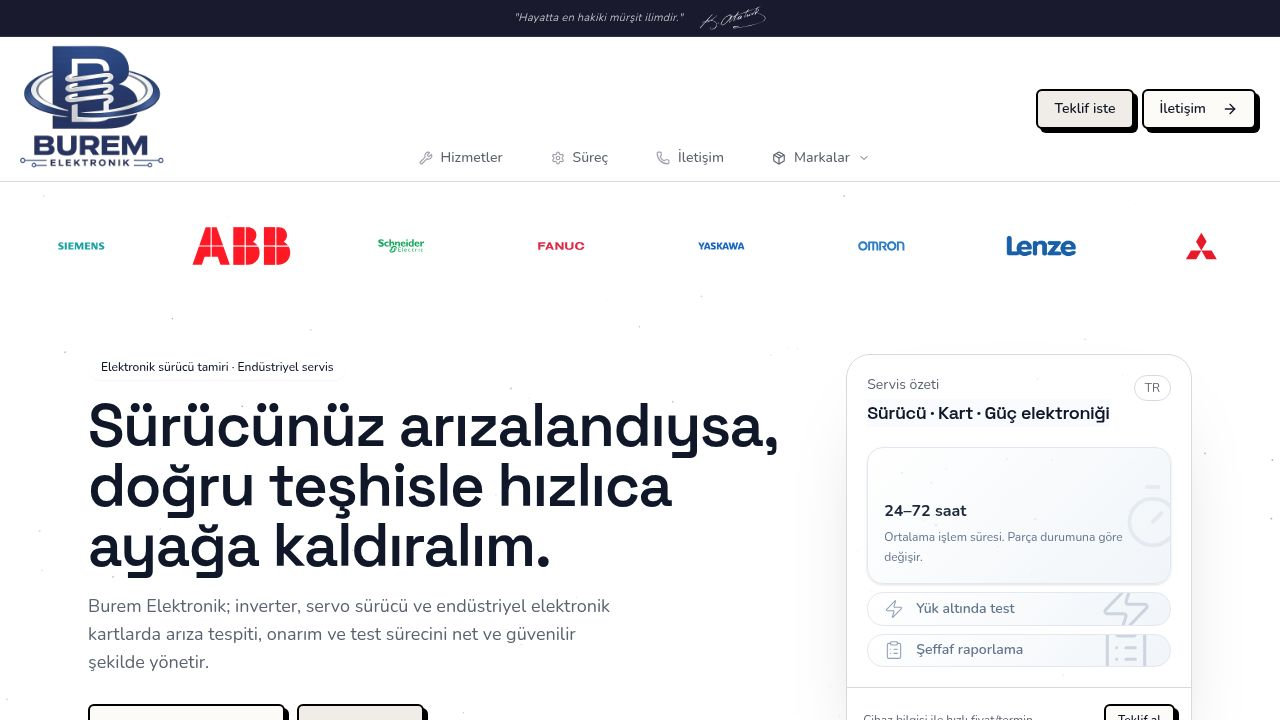
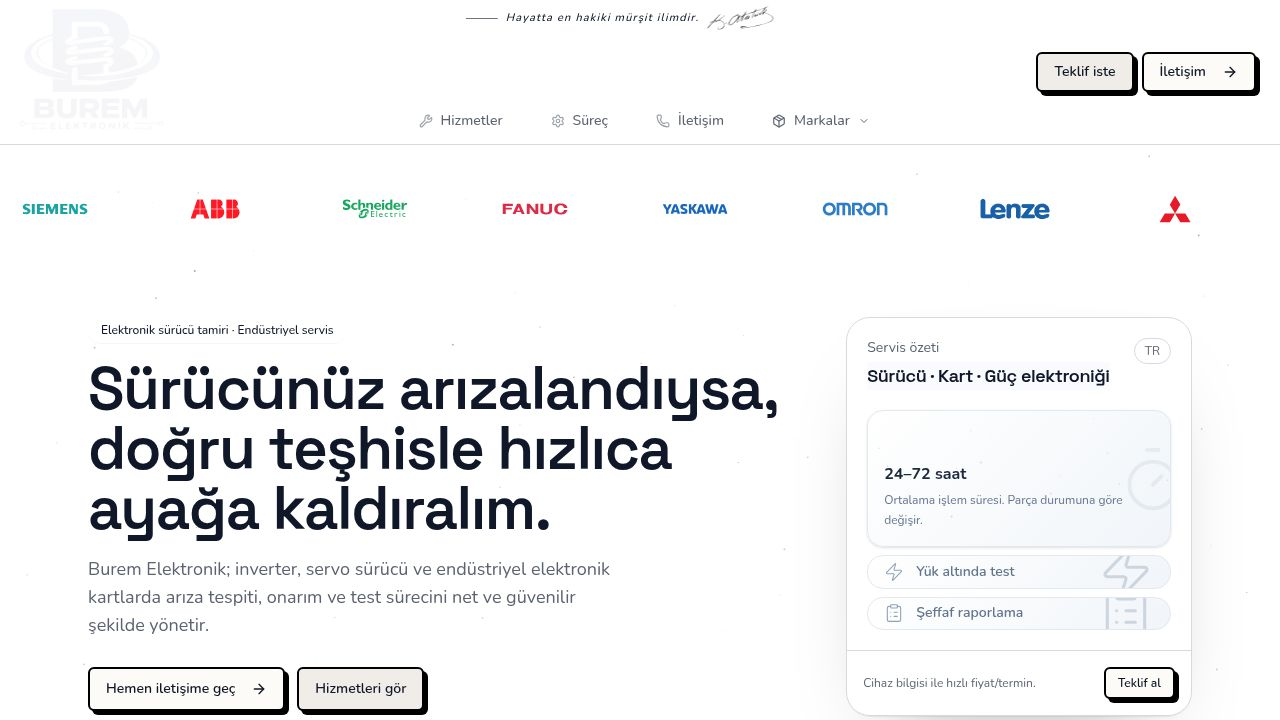
Add Atatürk silhouette that appears on hover over the quote
Update the home page to display an Atatürk silhouette below the "Hayatta en hakiki mürşit ilimdir" quote when hovered, using CSS group-hover for transitions.

Replit-Commit-Author: Agent
Replit-Commit-Session-Id: 371f6235-2fde-4516-bc43-82dd514ff68f
Replit-Commit-Checkpoint-Type: full_checkpoint
Replit-Commit-Event-Id: aef6f5ee-0b28-48c3-b2a2-bae0e5d0a2ec
Replit-Commit-Screenshot-Url: https://storage.googleapis.com/screenshot-production-us-central1/220fef12-6025-4ca4-92d5-d8870d5c7179/371f6235-2fde-4516-bc43-82dd514ff68f/gXXrKEM
Replit-Helium-Checkpoint-Created: true

diff --git a/client/src/pages/home.tsx b/client/src/pages/home.tsx
@@ -1092,7 +1092,10 @@ export default function HomePage() {
       
       <header className="relative sticky top-0 z-40 border-b bg-background/80 backdrop-blur-md">
         {/* Atatürk şeridi — tam ortada üstte, absolute */}
-        <div className="hidden lg:flex absolute top-1.5 left-1/2 -translate-x-1/2 items-center gap-2 pointer-events-none">
+        <div
+          className="hidden lg:flex absolute top-1.5 left-1/2 -translate-x-1/2 items-center gap-2 group cursor-default"
+          style={{ zIndex: 50 }}
+        >
           <motion.span
             className="w-8 h-px bg-foreground/60 flex-shrink-0 block"
             initial={{ scaleX: 0 }}
@@ -1130,6 +1133,16 @@ export default function HomePage() {
             style={{ transformOrigin: "left" }}
             transition={{ duration: 0.5, delay: 0.4 + 34 * 0.028 + 0.15, ease: [0.22, 1, 0.36, 1] }}
           />
+
+          {/* Hover silüet */}
+          <div className="absolute top-full left-1/2 -translate-x-1/2 mt-2 pointer-events-none flex justify-center">
+            <img
+              src="https://upload.wikimedia.org/wikipedia/commons/6/62/Ataturk.svg"
+              alt="Atatürk silüeti"
+              className="h-28 w-auto object-contain opacity-0 scale-90 group-hover:opacity-75 group-hover:scale-100 transition-all duration-400 ease-out drop-shadow-sm"
+              style={{ filter: "grayscale(1) contrast(1.1)" }}
+            />
+          </div>
         </div>
 
         <div className="flex w-full items-center justify-between gap-3 px-4 md:px-6">
